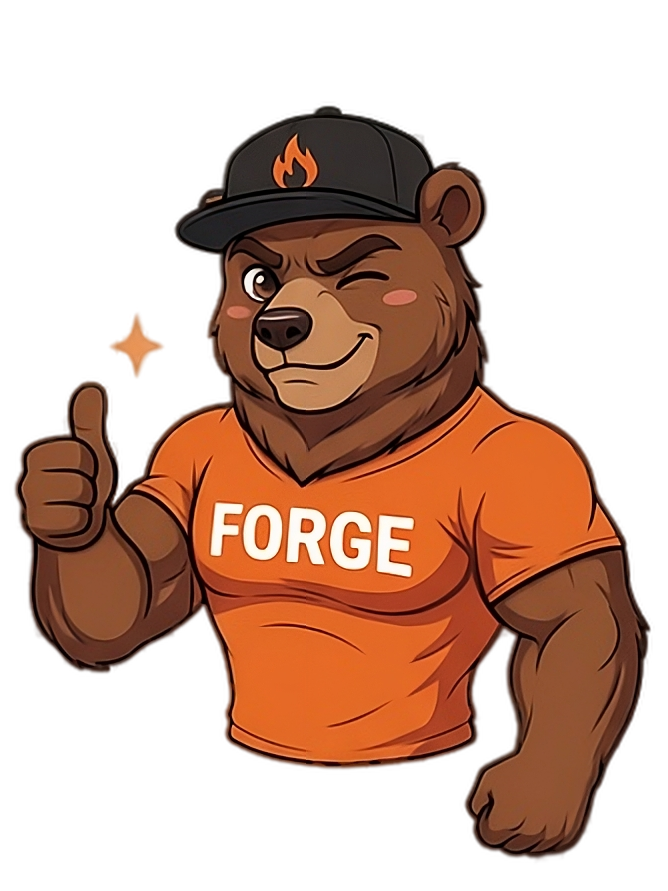
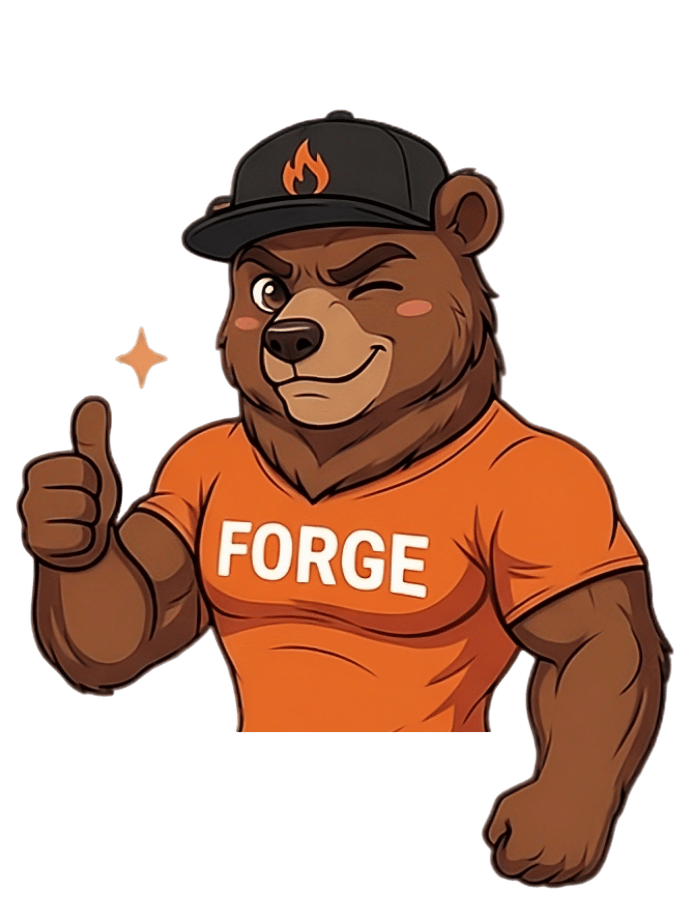
wip

diff --git a/components/forge/ForgeSegment.tsx b/components/forge/ForgeSegment.tsx
@@ -19,7 +19,11 @@ export function ForgeSegment({ options, value, onChange }: ForgeSegmentProps) {
 
   useEffect(() => {
     if (tabWidth > 0) {
-      translateX.value = withSpring(activeIdx * tabWidth, T.motion.spring);
+      translateX.value = withSpring(activeIdx * tabWidth, {
+        damping: 12,
+        stiffness: 100,
+        mass: 0.5
+      });
     }
   }, [activeIdx, tabWidth]);
 

diff --git a/features/planner/components/DailyPlanCard.tsx b/features/planner/components/DailyPlanCard.tsx
@@ -98,7 +98,7 @@ export function DailyPlanCard({ isLoading, loggedWorkout, plannedWorkout, active
             variant="secondary"
           />
         </View>
-        <BearMascot variant="APPROVING" size="lg" style={{ position: 'absolute', right: -8, top: -1, zIndex: 10 }} />
+        <BearMascot variant="APPROVING" size="lg" style={{ position: 'absolute', right: -8, bottom: 46, zIndex: 10 }} />
       </View>
     );
   }
@@ -167,7 +167,7 @@ const useS = (T: any) => StyleSheet.create({
     fontSize: T.typography.sizes.label, color: T.colors.t3, marginBottom: 6,
     fontWeight: '600', letterSpacing: 1, textTransform: 'uppercase',
   },
-  todaySub: { fontSize: T.typography.sizes.h2, fontWeight: '700', color: T.colors.t1, marginBottom: T.spacing.px2 },
+  todaySub: { fontSize: T.typography.sizes.h3, fontWeight: '700', color: T.colors.t1, marginBottom: T.spacing.px2 },
   todayMeta: { color: T.colors.t2, marginBottom: T.spacing.px6, fontSize: T.typography.sizes.bodyS },
   todayMetaCenter: { color: T.colors.t2, marginBottom: T.spacing.px6, fontSize: T.typography.sizes.bodyS, textAlign: 'center' },
   heatmapFigures: { flexDirection: 'row', justifyContent: 'center', gap: 20, marginBottom: T.spacing.px6 },